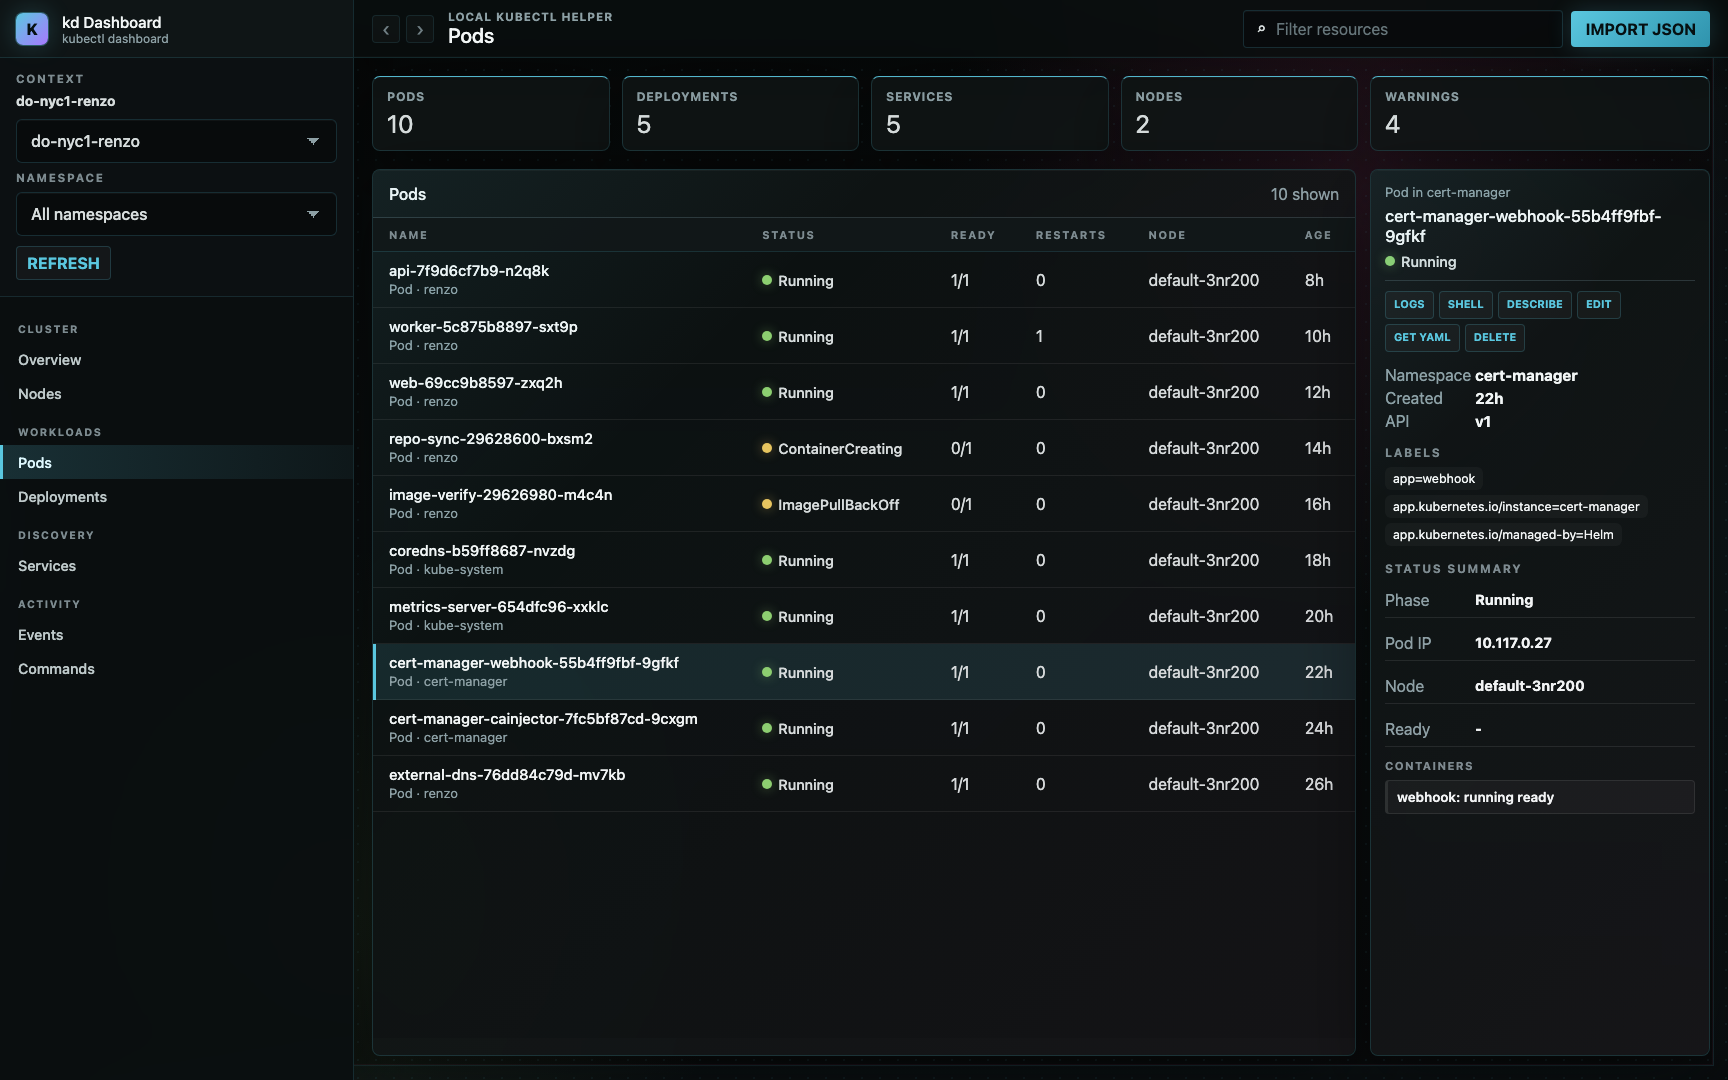
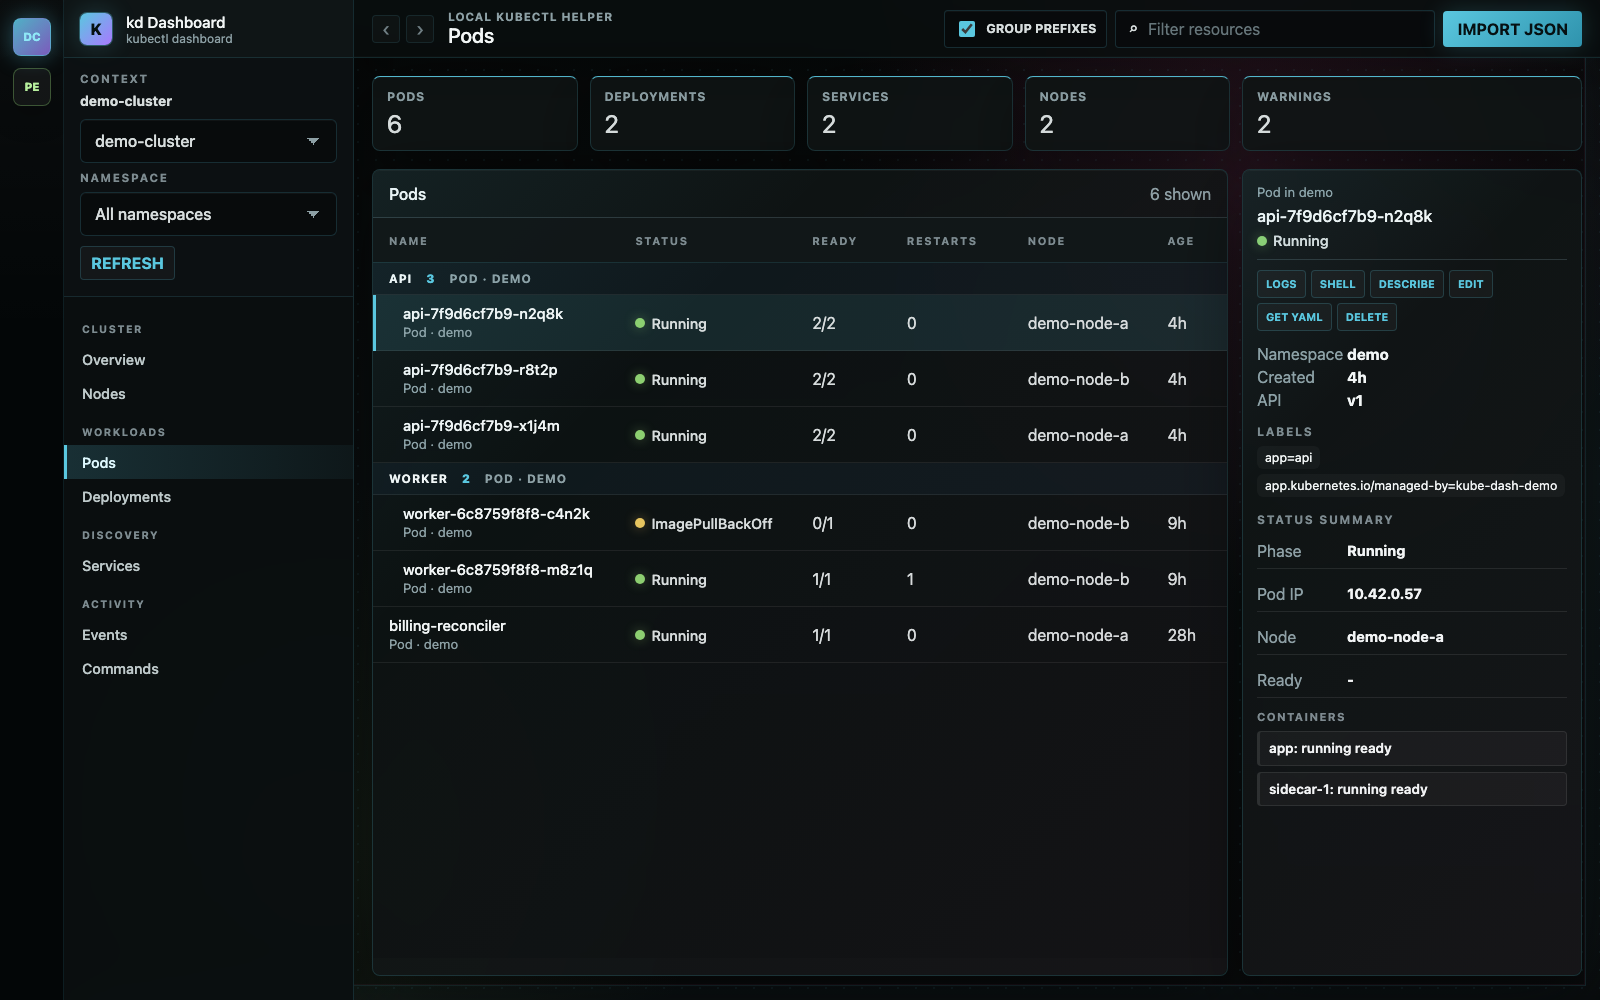
Add prefix grouping preference

diff --git a/app.js b/app.js
@@ -3,6 +3,7 @@ const state = {
   search: "",
   namespace: "all",
   sorts: {},
+  groupByPrefix: localStorage.getItem("kd-group-by-prefix") !== "false",
   chartFilter: null,
   context: localStorage.getItem("kd-context") || "",
   contexts: [],
@@ -48,6 +49,7 @@ const selectors = {
   charts: document.querySelector("#charts"),
   stats: document.querySelector("#stats"),
   searchInput: document.querySelector("#searchInput"),
+  groupToggle: document.querySelector("#groupToggle"),
   namespaceFilter: document.querySelector("#namespaceFilter"),
   importPanel: document.querySelector("#importPanel"),
   jsonInput: document.querySelector("#jsonInput"),
@@ -140,6 +142,13 @@ function bindEvents() {
     renderTable();
   });
 
+  selectors.groupToggle.checked = state.groupByPrefix;
+  selectors.groupToggle.addEventListener("change", () => {
+    state.groupByPrefix = selectors.groupToggle.checked;
+    persistPreferences();
+    renderTable();
+  });
+
   selectors.namespaceFilter.addEventListener("change", (event) => {
     state.namespace = event.target.value;
     state.selectedKey = null;
@@ -223,6 +232,7 @@ async function bootApi() {
     if (!response.ok) throw new Error("The kd helper is not running.");
     const data = await response.json();
     state.apiAvailable = true;
+    await loadPreferences();
     state.contexts = data.contexts || [];
     const savedContext = localStorage.getItem("kd-context") || "";
     state.context = state.contexts.includes(savedContext) ? savedContext : data.currentContext || state.contexts[0] || "";
@@ -236,6 +246,36 @@ async function bootApi() {
     state.lastError = "Run `kd` from a terminal to load resources automatically.";
     selectors.importPanel.classList.remove("collapsed");
     render();
+  }
+}
+
+async function loadPreferences() {
+  if (!state.apiAvailable) return;
+  try {
+    const response = await fetch("/api/preferences", { cache: "no-store" });
+    if (!response.ok) throw new Error("Preferences unavailable.");
+    const data = await response.json();
+    if (typeof data.preferences?.groupByPrefix === "boolean") {
+      state.groupByPrefix = data.preferences.groupByPrefix;
+      localStorage.setItem("kd-group-by-prefix", String(state.groupByPrefix));
+      selectors.groupToggle.checked = state.groupByPrefix;
+    }
+  } catch (error) {
+    selectors.groupToggle.checked = state.groupByPrefix;
+  }
+}
+
+async function persistPreferences() {
+  localStorage.setItem("kd-group-by-prefix", String(state.groupByPrefix));
+  if (!state.apiAvailable) return;
+  try {
+    await fetch("/api/preferences", {
+      method: "POST",
+      headers: { "Content-Type": "application/json" },
+      body: JSON.stringify({ preferences: { groupByPrefix: state.groupByPrefix } }),
+    });
+  } catch (error) {
+    // Local storage already preserves the preference for file/fallback mode.
   }
 }
 
@@ -801,22 +841,91 @@ function renderTable() {
     return;
   }
 
-  selectors.tableBody.innerHTML = sortedRows
-    .map(
-      (resource) => `
-        <tr class="${resource.key === state.selectedKey ? "selected" : ""}" data-key="${escapeHtml(resource.key)}">
-          ${columns.map((column) => `<td>${column.render(resource)}</td>`).join("")}
-        </tr>`,
-    )
-    .join("");
+  selectors.tableBody.innerHTML = tableRows(sortedRows, columns).join("");
 
-  selectors.tableBody.querySelectorAll("tr").forEach((row) => {
+  selectors.tableBody.querySelectorAll("tr[data-key]").forEach((row) => {
     row.addEventListener("click", () => {
       state.selectedKey = row.dataset.key;
       renderTable();
       renderDetails();
     });
   });
+}
+
+function tableRows(rows, columns) {
+  if (!state.groupByPrefix) return rows.map((resource) => resourceRow(resource, columns));
+
+  const groups = buildPrefixGroups(rows);
+  const renderedGroups = new Set();
+  const output = [];
+  rows.forEach((resource) => {
+    const group = groups.get(groupKey(resource));
+    if (!group || group.items.length < 2) {
+      output.push(resourceRow(resource, columns));
+      return;
+    }
+    if (renderedGroups.has(group.key)) return;
+    renderedGroups.add(group.key);
+    output.push(groupRow(group, columns.length));
+    group.items.forEach((item) => output.push(resourceRow(item, columns, " grouped")));
+  });
+  return output;
+}
+
+function resourceRow(resource, columns, extraClass = "") {
+  return `
+    <tr class="${resource.key === state.selectedKey ? "selected" : ""}${extraClass}" data-key="${escapeHtml(resource.key)}">
+      ${columns.map((column) => `<td>${column.render(resource)}</td>`).join("")}
+    </tr>`;
+}
+
+function groupRow(group, columnCount) {
+  const namespace = group.namespace ? ` · ${group.namespace}` : "";
+  return `
+    <tr class="group-row">
+      <td colspan="${columnCount}">
+        <span>${escapeHtml(group.prefix)}</span>
+        <strong>${group.items.length}</strong>
+        <em>${escapeHtml(`${group.kind}${namespace}`)}</em>
+      </td>
+    </tr>`;
+}
+
+function buildPrefixGroups(rows) {
+  const groups = new Map();
+  rows.forEach((resource) => {
+    const prefix = resourcePrefix(resource.name);
+    const key = groupKey(resource, prefix);
+    const group = groups.get(key) || {
+      key,
+      prefix,
+      kind: resource.kind,
+      namespace: resource.namespace,
+      items: [],
+    };
+    group.items.push(resource);
+    groups.set(key, group);
+  });
+  return groups;
+}
+
+function groupKey(resource, prefix = resourcePrefix(resource.name)) {
+  return `${resource.type}:${resource.namespace || "cluster"}:${prefix}`;
+}
+
+function resourcePrefix(name) {
+  const parts = String(name || "").split("-").filter(Boolean);
+  if (parts.length < 2) return String(name || "");
+
+  let end = parts.length;
+  if (isGeneratedNamePart(parts[end - 1])) end -= 1;
+  if (end > 1 && isGeneratedNamePart(parts[end - 1])) end -= 1;
+  if (end === parts.length || end < 1) return String(name || "");
+  return parts.slice(0, end).join("-");
+}
+
+function isGeneratedNamePart(value) {
+  return /^[a-z0-9]{5,12}$/.test(value || "") && /[0-9]/.test(value || "");
 }
 
 function tableColumns(view) {

diff --git a/styles.css b/styles.css
@@ -292,6 +292,34 @@ select:disabled {
   justify-content: flex-end;
 }
 
+.toggle-control {
+  min-height: 38px;
+  display: inline-flex;
+  align-items: center;
+  gap: 8px;
+  padding: 0 10px;
+  border: 1px solid var(--border);
+  border-radius: 4px;
+  background: var(--surface);
+  color: var(--muted);
+  font-size: 0.78rem;
+  font-weight: 700;
+  text-transform: uppercase;
+  cursor: pointer;
+}
+
+.toggle-control input {
+  width: 16px;
+  height: 16px;
+  accent-color: var(--accent);
+}
+
+.toggle-control:hover,
+.toggle-control:focus-within {
+  border-color: var(--accent);
+  color: var(--heading);
+}
+
 .search {
   width: min(360px, 34vw);
   display: flex;
@@ -816,6 +844,45 @@ tbody tr:hover {
 
 tbody tr.selected {
   background: var(--accent-soft);
+}
+
+.group-row {
+  cursor: default;
+}
+
+.group-row td {
+  padding-top: 9px;
+  padding-bottom: 9px;
+  background: rgba(61, 144, 206, 0.06);
+  color: var(--muted);
+  font-size: 0.74rem;
+  font-weight: 700;
+  letter-spacing: 0.08em;
+  text-transform: uppercase;
+}
+
+.group-row span,
+.group-row strong,
+.group-row em {
+  display: inline-block;
+  margin-right: 10px;
+  font-style: normal;
+}
+
+.group-row span {
+  color: var(--heading);
+}
+
+.group-row strong {
+  color: var(--accent);
+}
+
+tbody tr.grouped .name-cell {
+  padding-left: 14px;
+}
+
+tbody tr.group-row:hover {
+  background: transparent;
 }
 
 .name-cell {
@@ -1622,6 +1689,7 @@ th {
   color: var(--heading);
 }
 
+.toggle-control,
 .search,
 select,
 textarea,
@@ -1645,6 +1713,13 @@ select:hover {
     linear-gradient(45deg, transparent 50%, var(--accent) 50%) calc(100% - 22px) 18px / 7px 7px no-repeat,
     linear-gradient(135deg, var(--accent) 50%, transparent 50%) calc(100% - 16px) 18px / 7px 7px no-repeat,
     rgba(12, 18, 19, 0.95);
+}
+
+.toggle-control:hover,
+.toggle-control:focus-within {
+  background: rgba(12, 18, 19, 0.95);
+  border-color: rgba(90, 199, 223, 0.42);
+  color: var(--heading);
 }
 
 .search input {

diff --git a/index.html b/index.html
@@ -61,6 +61,10 @@
             </div>
           </div>
           <div class="toolbar">
+            <label class="toggle-control" title="Group generated Kubernetes object names by shared prefix">
+              <input id="groupToggle" type="checkbox" checked />
+              <span>Group prefixes</span>
+            </label>
             <label class="search">
               <span aria-hidden="true">⌕</span>
               <input id="searchInput" type="search" placeholder="Filter resources" />

diff --git a/kd-server.py b/kd-server.py
@@ -17,6 +17,9 @@ from urllib.parse import parse_qs, urlparse
 APP_DIR = os.path.dirname(os.path.abspath(__file__))
 RESOURCE_TYPES = "pods,deployments,services,nodes,events"
 WS_GUID = "258EAFA5-E914-47DA-95CA-C5AB0DC85B11"
+CONFIG_DIR = os.path.join(os.environ.get("XDG_CONFIG_HOME", os.path.expanduser("~/.config")), "kube-dash")
+PREFERENCES_PATH = os.path.join(CONFIG_DIR, "preferences.json")
+DEFAULT_PREFERENCES = {"groupByPrefix": True}
 
 
 def kubectl(args, timeout=45):
@@ -51,6 +54,30 @@ def list_contexts():
         return [line.strip() for line in output.splitlines() if line.strip()]
     except Exception:
         return []
+
+
+def read_preferences():
+    try:
+        with open(PREFERENCES_PATH, "r", encoding="utf-8") as handle:
+            data = json.load(handle)
+    except Exception:
+        data = {}
+    preferences = dict(DEFAULT_PREFERENCES)
+    if isinstance(data, dict):
+        if "groupByPrefix" in data:
+            preferences["groupByPrefix"] = bool(data["groupByPrefix"])
+    return preferences
+
+
+def write_preferences(preferences):
+    current = read_preferences()
+    if isinstance(preferences, dict) and "groupByPrefix" in preferences:
+        current["groupByPrefix"] = bool(preferences["groupByPrefix"])
+    os.makedirs(CONFIG_DIR, exist_ok=True)
+    with open(PREFERENCES_PATH, "w", encoding="utf-8") as handle:
+        json.dump(current, handle, indent=2, sort_keys=True)
+        handle.write("\n")
+    return current
 
 
 def parse_cpu(value):
@@ -176,6 +203,10 @@ class Handler(SimpleHTTPRequestHandler):
             self.write_json({"currentContext": current_context(), "contexts": list_contexts()})
             return
 
+        if parsed.path == "/api/preferences":
+            self.write_json({"preferences": read_preferences(), "path": PREFERENCES_PATH})
+            return
+
         if parsed.path == "/api/resources":
             query = parse_qs(parsed.query)
             context = (query.get("context") or [""])[0]
@@ -206,6 +237,9 @@ class Handler(SimpleHTTPRequestHandler):
             return
         if parsed.path == "/api/apply":
             self.handle_apply()
+            return
+        if parsed.path == "/api/preferences":
+            self.handle_preferences()
             return
         self.send_error(404)
 
@@ -270,6 +304,14 @@ class Handler(SimpleHTTPRequestHandler):
             self.write_json({"exitCode": 124, "output": output + "\nApply timed out."}, status=504)
         except Exception as exc:
             self.write_json({"exitCode": 1, "output": str(exc)}, status=400)
+
+    def handle_preferences(self):
+        try:
+            payload = self.read_json_body()
+            preferences = write_preferences(payload.get("preferences", payload))
+            self.write_json({"preferences": preferences, "path": PREFERENCES_PATH})
+        except Exception as exc:
+            self.write_json({"error": str(exc)}, status=400)
 
     def handle_describe(self, parsed):
         query = parse_qs(parsed.query)

diff --git a/README.md b/README.md
@@ -50,6 +50,8 @@ kd
 
 The dashboard opens at `http://localhost:8765`, discovers your kube contexts, and loads resources from the selected context automatically.
 
+Generated Kubernetes names are grouped by shared prefix by default, so related pods such as replica siblings stay together in the table. The toolbar toggle persists through the local `kd` helper in `~/.config/kube-dash/preferences.json`, with browser local storage as the fallback when opening the static HTML directly.
+
 Other launcher commands:
 
 ```sh